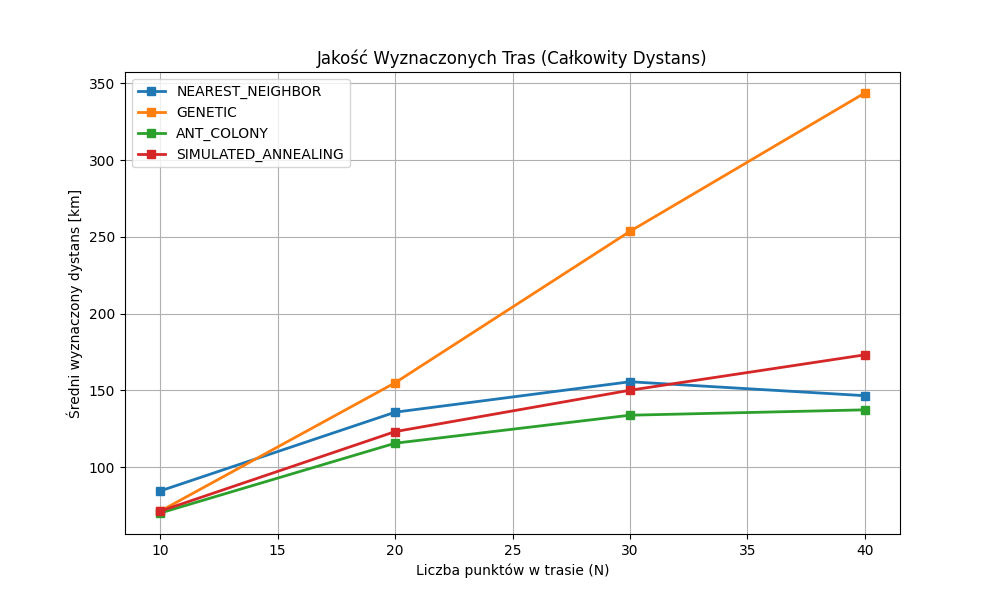
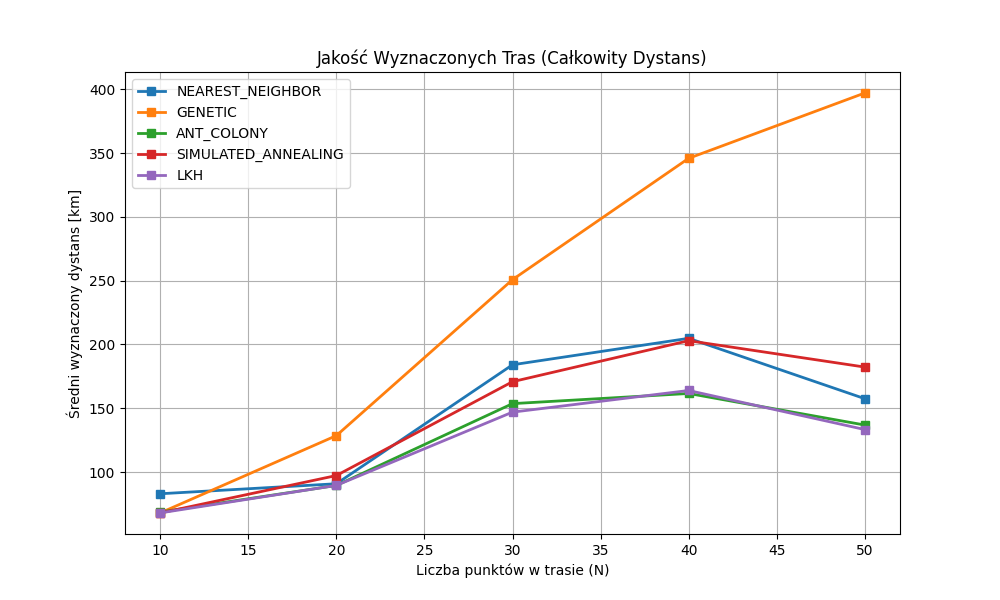
feat: add LKH algorithm implementation and update related configurations in routing service and UI

diff --git a/svc-web/index.html b/svc-web/index.html
@@ -145,6 +145,7 @@
               <option value="genetic">Genetic Algorithm</option>
               <option value="ant_colony">Ant Colony Optimization</option>
               <option value="simulated_annealing">Simulated Annealing</option>
+              <option value="lkh">LKH</option>
             </select>
           </label>
         </div>

diff --git a/svc-routing/src/api/routes.py b/svc-routing/src/api/routes.py
@@ -13,6 +13,7 @@ from src.services.nearest_neighbor import nearest_neighbor
 from src.services.genetic import genetic_algorithm
 from src.services.aco import ant_colony_optimization
 from src.services.sa import simulated_annealing
+from src.services.lkh import generate_lkh
 
 router = APIRouter(tags=["Optimization"])
 
@@ -87,7 +88,7 @@ def optimize_route(request: OptimizationRequest, incoming_request: Request):
     if not points:
         raise HTTPException(status_code=404, detail=f"no annotations found for feature_id {request.feature_id}")
 
-    if request.algorithm not in ["A*", "nearest_neighbor", "genetic", "ant_colony","simulated_annealing"]:
+    if request.algorithm not in ["A*", "nearest_neighbor", "genetic", "ant_colony","simulated_annealing", "lkh"]:
         raise HTTPException(status_code=400, detail="unsupported algorithm")
     
     if request.algorithm == "A*" and (request.goal_idx is None):
@@ -186,6 +187,24 @@ def optimize_route(request: OptimizationRequest, incoming_request: Request):
 
             if not ordered_indices:
                 raise HTTPException(status_code=500, detail="Simulated Annealing failed")
+
+            ordered_points = [points[i] for i in ordered_indices]
+
+            for i in range(len(ordered_indices) - 1):
+                from_idx = ordered_indices[i]
+                to_idx = ordered_indices[i + 1]
+                total_distance += _safe_edge_distance(dist_matrix[from_idx][to_idx], points[from_idx], points[to_idx])
+        
+        case "lkh":
+            try:
+                dist_matrix = get_distance_matrix(points)
+            except Exception as err:
+                raise HTTPException(status_code=502, detail=str(err))
+
+            ordered_indices, computation_time = generate_lkh(start_idx, points, dist_matrix)
+
+            if not ordered_indices:
+                raise HTTPException(status_code=500, detail="LKH failed")
 
             ordered_points = [points[i] for i in ordered_indices]
 

diff --git a/svc-routing/src/services/lkh.py b/svc-routing/src/services/lkh.py
@@ -1,0 +1,45 @@
+import time
+import lkh
+
+def generate_lkh(start_idx, points, dist_matrix):
+    start_time = time.time()
+    n = len(points)
+    
+    tsplib_str = (
+        "NAME: OSRM_Routing\n"
+        "TYPE: TSP\n"
+        f"DIMENSION: {n}\n"
+        "EDGE_WEIGHT_TYPE: EXPLICIT\n"
+        "EDGE_WEIGHT_FORMAT: FULL_MATRIX\n"
+        "EDGE_WEIGHT_SECTION\n"
+    )
+    
+
+    for i in range(n):
+        row_str = []
+        for j in range(n):
+            val = dist_matrix[i][j]
+            if val is None or val != val:
+                row_str.append("999999999")
+            else:
+                row_str.append(str(int(val)))
+        tsplib_str += " ".join(row_str) + "\n"
+        
+    tsplib_str += "EOF\n"
+    
+    problem = lkh.LKHProblem.parse(tsplib_str)
+    
+
+    routes = lkh.solve(solver='LKH', problem=problem, max_trials=100, runs=1,precision=1)
+    
+    best_route = routes[0] 
+    
+    path_0_indexed = [node - 1 for node in best_route]
+    
+    start_pos = path_0_indexed.index(start_idx)
+    rotated_path = path_0_indexed[start_pos:] + path_0_indexed[:start_pos]
+    
+    rotated_path.append(start_idx)
+    
+    end_time = time.time()
+    return rotated_path, end_time - start_time

diff --git a/svc-routing/scripts/benchmark.py b/svc-routing/scripts/benchmark.py
@@ -18,11 +18,11 @@ def get_jwt_token():
     response.raise_for_status()
     return response.json()["access_token"]
 
-ALGORITHMS = ["nearest_neighbor", "genetic", "ant_colony", "simulated_annealing"]
+ALGORITHMS = ["nearest_neighbor", "genetic", "ant_colony", "simulated_annealing", "lkh"]
 
-PROBLEM_SIZES = [10, 20, 30, 40] 
+PROBLEM_SIZES = [10, 20, 30, 40,50] 
 RUNS_PER_ALGO = 3 
-
+    
 def generate_random_points(num_points):
     points = []
     for i in range(num_points):

diff --git a/internal/annotations/seed/seed.go b/internal/annotations/seed/seed.go
@@ -53,7 +53,7 @@ func (s *Seeder) SeedDomainData(ctx context.Context, n int) error {
 			Text:      gofakeit.Sentence(10),
 			Location: model.MongoGeoJSON{
 				Type:        "Point",
-				Coordinates: []float64{gofakeit.Float64Range(-180, 180), gofakeit.Float64Range(-90, 90)},
+				Coordinates: []float64{54.35 + gofakeit.Float64Range(-0.1, 0.1), 18.64 + gofakeit.Float64Range(-0.1, 0.1)},
 			},
 			CreatedAt: time.Now().UTC(),
 		}
